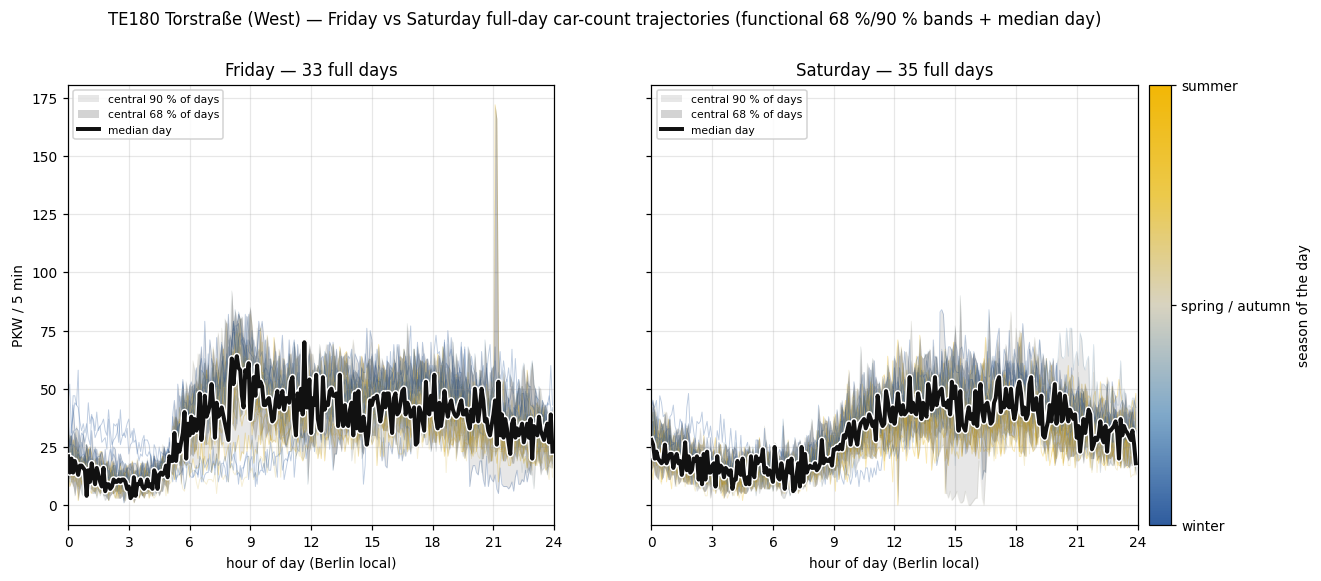
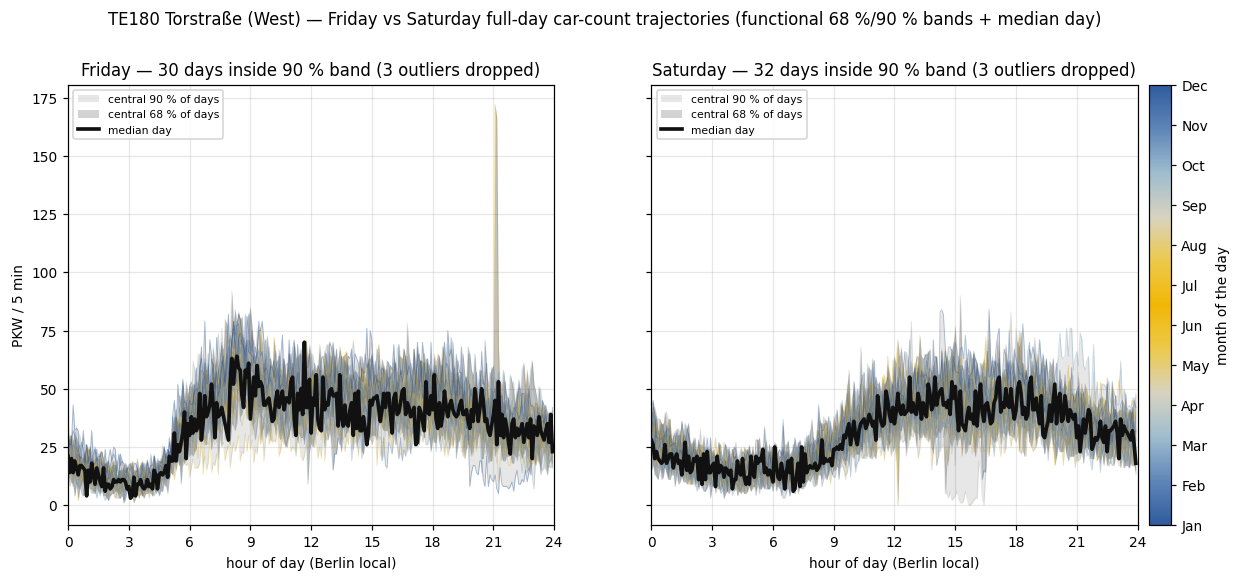
te180-deepdive: refine Fri/Sat trajectory bands — drop 90% outliers, month colour, flat median
- plot only the days inside the 90% functional band (deepest 90% by MBD);
  the ~10% depth outliers are no longer drawn
- colour scale is now calendar month (cyclic blue→yellow→blue) instead of season
- median day is a plain near-black line (white halo removed)
- README caption/reading updated; note that whole-curve depth keeps days with a
  single brief spike, so the 90% envelope can still bulge to contain them

diff --git a/berlin-traffic-groundwork/te180-deepdive/analyze.py b/berlin-traffic-groundwork/te180-deepdive/analyze.py
@@ -19,7 +19,6 @@ matplotlib.use("Agg")
 import matplotlib.pyplot as plt
 import matplotlib.dates as mdates
 import matplotlib.cm as cm
-import matplotlib.patheffects as pe
 from matplotlib.colors import Normalize, LinearSegmentedColormap
 
 HERE = os.path.dirname(os.path.abspath(__file__))
@@ -204,15 +203,12 @@ def fig_day_pattern_by_dow(d):
 # deepest real day (again, a genuine trajectory, not a pointwise synthetic curve).
 SLOTS = 288  # 5-min slots in a (non-DST-change) day; Fri/Sat are always 24 h
 
-def _season_cmap():
-    # winter → pale → summer; soft, low-saturation so many overlaid lines stay calm
-    return LinearSegmentedColormap.from_list(
-        "winter_summer", ["#2f5c9e", "#7fa8c9", "#d8d3c0", "#ecc94b", "#f2b705"])
-
-def _season_phase(dates):
-    """Smooth seasonality in [-1, 1]: +1 at midsummer (~21 Jun, doy 172), -1 mid-winter."""
-    doy = pd.DatetimeIndex(dates).dayofyear.values
-    return np.cos(2 * np.pi * (doy - 172) / 365.25)
+def _month_cmap():
+    # cyclic blue(winter) → yellow(summer) → blue: keeps summer warm / winter cool
+    # while the colour SCALE is calendar month (Jan…Dec), not an abstract season axis
+    return LinearSegmentedColormap.from_list("month_temp", [
+        "#2f5c9e", "#5f86b8", "#9fbdcf", "#d8d3c0", "#ecc94b", "#f2b705",
+        "#ecc94b", "#d8d3c0", "#9fbdcf", "#5f86b8", "#2f5c9e"])
 
 def _day_matrix(df, dow):
     """(dates, M) for one weekday: M[i] is day i's 288-pt 5-min count trajectory.
@@ -242,44 +238,44 @@ def _mbd(M):
         acc += contained / npairs
     return acc / p
 
-def _central_envelope(M, depth, frac):
-    """Pointwise [min,max] envelope of the deepest `frac` of curves (functional band)."""
-    k = max(2, int(np.ceil(frac * len(depth))))
-    sub = M[np.argsort(-depth)[:k]]
-    return sub.min(0), sub.max(0)
-
 def fig_weekend_day_bands(df):
     tod = np.arange(SLOTS) / 12.0                       # hour of day, 0..24
-    cmap = _season_cmap()
+    cmap = _month_cmap(); mnorm = Normalize(1, 12)
     fig, ax = plt.subplots(1, 2, figsize=(13, 5.2), sharey=True)
     counts = {}
     for a, (dow, name) in zip(ax, [(4, "Friday"), (5, "Saturday")]):
         dates, M = _day_matrix(df, dow)
-        counts[name] = len(M)
         depth = _mbd(M)
-        lo90, hi90 = _central_envelope(M, depth, 0.90)
-        lo68, hi68 = _central_envelope(M, depth, 0.68)
-        med = M[int(np.argmax(depth))]                  # functional median = deepest real day
-        phase = _season_phase(dates)
-        # the actual day trajectories, faint & seasonal-coloured
-        for i in range(len(M)):
-            a.plot(tod, M[i], color=cmap((phase[i] + 1) / 2), lw=0.6, alpha=0.32, zorder=1)
+        order = np.argsort(-depth)
+        k90 = max(2, int(np.ceil(0.90 * len(depth))))   # deepest 90 % = inside the 90 % band
+        k68 = max(2, int(np.ceil(0.68 * len(depth))))
+        in90 = order[:k90]
+        counts[name] = {"kept_90pct": int(k90), "dropped_outliers": int(len(depth) - k90)}
+        lo90, hi90 = M[in90].min(0), M[in90].max(0)
+        lo68, hi68 = M[order[:k68]].min(0), M[order[:k68]].max(0)
+        med = M[order[0]]                               # functional median = deepest real day
+        months = pd.DatetimeIndex(dates).month.values
+        # only the trajectories INSIDE the 90 % band — the ~10 % outliers are dropped
+        for i in in90:
+            a.plot(tod, M[i], color=cmap(mnorm(months[i])), lw=0.6, alpha=0.42, zorder=1)
         # nested functional bands: 90 % wider & lighter, 68 % narrower & darker
         a.fill_between(tod, lo90, hi90, color="#3a3a3a", alpha=0.12, zorder=2, lw=0,
                        label="central 90 % of days")
         a.fill_between(tod, lo68, hi68, color="#3a3a3a", alpha=0.22, zorder=3, lw=0,
                        label="central 68 % of days")
-        # bold standout median, white halo so it reads over every line and band
-        a.plot(tod, med, color="#111111", lw=2.6, zorder=5, label="median day",
-               path_effects=[pe.Stroke(linewidth=4.5, foreground="white"), pe.Normal()])
-        a.set_title(f"{name} — {len(M)} full days"); a.set_xlim(0, 24)
+        # bold near-black median line
+        a.plot(tod, med, color="#111111", lw=2.4, zorder=5, label="median day")
+        a.set_title(f"{name} — {k90} days inside 90 % band "
+                    f"({len(depth) - k90} outliers dropped)"); a.set_xlim(0, 24)
         a.set_xticks(range(0, 25, 3)); a.set_xlabel("hour of day (Berlin local)")
         a.legend(loc="upper left", fontsize=7, framealpha=0.85)
     ax[0].set_ylabel("PKW / 5 min")
-    sm = cm.ScalarMappable(norm=Normalize(-1, 1), cmap=cmap); sm.set_array([])
+    sm = cm.ScalarMappable(norm=mnorm, cmap=cmap); sm.set_array([])
     cb = fig.colorbar(sm, ax=ax, fraction=0.025, pad=0.01)
-    cb.set_ticks([-1, 0, 1]); cb.set_ticklabels(["winter", "spring / autumn", "summer"])
-    cb.set_label("season of the day")
+    cb.set_ticks(range(1, 13))
+    cb.set_ticklabels(["Jan", "Feb", "Mar", "Apr", "May", "Jun",
+                       "Jul", "Aug", "Sep", "Oct", "Nov", "Dec"])
+    cb.set_label("month of the day")
     fig.suptitle(f"{TITLE} — Friday vs Saturday full-day car-count trajectories "
                  f"(functional 68 %/90 % bands + median day)", y=1.01)
     fig.savefig(f"{FIG}/14_weekend_day_trajectory_bands.png", bbox_inches="tight")

diff --git a/berlin-traffic-groundwork/te180-deepdive/README.md b/berlin-traffic-groundwork/te180-deepdive/README.md
@@ -121,30 +121,33 @@ sitting just above Sunday**.*
 Where the decomposition above plots *group means*, this view keeps the **individual
 days intact**. Each faint line is **one real Friday (or Saturday)** — that specific
 date's complete 24-hour car-count profile at native 5-min resolution (Berlin local),
-an **actual trajectory, not a per-bin reshuffle**. Lines are tinted on a gentle
-**seasonal ramp (blue = winter → yellow = summer)** keyed to a smooth cosine of the
-day-of-year, so the seasonal stratification of the whole day is legible at a glance.
+an **actual trajectory, not a per-bin reshuffle**. Lines are tinted by **calendar
+month** on a gentle cyclic ramp (**blue = winter → yellow = summer → blue**), so the
+seasonal stratification of the whole day is legible at a glance.
 
 ![weekend day trajectory bands](figures/14_weekend_day_trajectory_bands.png)
-*Fri (left) / Sat (right), 33 / 35 full days with ≥95 % slot coverage. Over the real
-trajectories sit two **functional credible bands** and a **median day**, all built
-from **Modified Band Depth** (MBD; López-Pintado & Romo 2009 — the engine of the
-functional boxplot). MBD ranks each whole curve by how often it lies inside the band
-spanned by pairs of other days; the **central 68 % / 90 %** envelopes are then the
-pointwise min–max of the deepest 68 % / 90 % of days (darker-narrow vs lighter-wide
-grey), so the band literally **contains that share of entire days** rather than being
-a pointwise quantile. The bold white-haloed line is the **functional median = the
-single deepest real day** (a genuine trajectory, not a synthetic average).*
+*Fri (left) / Sat (right); after the ≥95 % slot-coverage filter, **only the days
+inside the 90 % band are drawn** (30 of 33 Fri, 32 of 35 Sat — the ~10 % depth
+outliers are dropped). Over the real trajectories sit two **functional credible
+bands** and a **median day**, all built from **Modified Band Depth** (MBD;
+López-Pintado & Romo 2009 — the engine of the functional boxplot). MBD ranks each
+whole curve by how often it lies inside the band spanned by pairs of other days; the
+**central 68 % / 90 %** envelopes are then the pointwise min–max of the deepest 68 %
+/ 90 % of days (darker-narrow vs lighter-wide grey), so the band literally
+**contains that share of entire days** rather than being a pointwise quantile. The
+bold near-black line is the **functional median = the single deepest real day** (a
+genuine trajectory, not a synthetic average).*
 
 Reading it: both nights share the weekday→weekend signature — **no sharp 08:00
 commute spike**, a slow build to a broad afternoon/evening plateau, and a fat late
-band. **Friday** carries the heavier, longer-tailed evening (the lone real day
-spiking to ~175 PKW/5 min near 21:00 falls *outside* the 90 % band — exactly the
-extreme the band is meant to exclude); **Saturday** is gentler and earlier-tapering.
-The 90 %/68 % gap is widest in the afternoon/evening (day-to-day variance peaks when
-the street is busy) and pinches tight in the **04:00–05:00 trough**, where every
-weekend looks alike. Seasonal colour shows summer (yellow) days running a touch
-higher through the long evenings than winter (blue) ones.
+band. **Friday** carries the heavier, longer-tailed evening; **Saturday** is gentler
+and earlier-tapering. The 90 %/68 % gap is widest in the afternoon/evening (day-to-day
+variance peaks when the street is busy) and pinches tight in the **04:00–05:00
+trough**, where every weekend looks alike. Note that depth is a *whole-curve* measure:
+a day that is typical all day bar one 5-min spike stays "deep" and is kept, so the
+90 % envelope can still bulge to contain a brief excursion (e.g. the ~21:00 Friday
+peak). The month colour shows summer (yellow) days running a touch higher through the
+long evenings than winter (blue) ones.
 
 ## Statistical view
 
